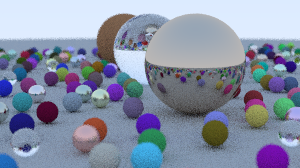
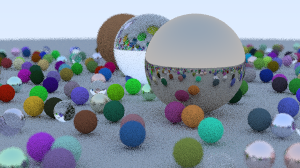
integrate the new vec3 module to the code.

diff --git a/rayt-python/rayt_python/main.py b/rayt-python/rayt_python/main.py
@@ -13,8 +13,8 @@ from rayt_python.material import Dielectric, Lambertian, Metal
 from rayt_python.ray import Ray
 from rayt_python.sphere import Sphere
 from rayt_python.utils import random_double
-from rayt_python.vec3 import Vec3, Color, Point3
-from rayt_python.vec3_old import unit_vector
+from rayt_python.vec3 import unit_vector
+from rayt_python.vec3_types import Color, Point3, Vec3
 
 
 def ray_color(ray: Ray, world: Hittable, depth: int) -> Color:
@@ -44,26 +44,26 @@ def random_scene() -> HittableList:
     ground_material = Lambertian(albedo=Color(0.5, 0.5, 0.5))
     world.add(Sphere(Point3(0.0, -1000.0, 0.0), 1000.0, ground_material))
 
-    # for a, b in itertools.product(range(-11, 11), range(-11, 11)):
-    #     choose_mat = random_double()
-    #     center = Point3(a + 0.9 * random_double(), 0.2, b + 0.9 * random_double())
+    for a, b in itertools.product(range(-11, 11), range(-11, 11)):
+        choose_mat = random_double()
+        center = Point3(a + 0.9 * random_double(), 0.2, b + 0.9 * random_double())
 
-    #     if (center - Point3(4.0, 0.2, 0.0)).length > 0.9:
-    #         if choose_mat < 0.8:
-    #             # diffuse
-    #             albedo = Color.random() * Color.random()
-    #             sphere_material = Lambertian(albedo)
-    #             world.add(Sphere(center, 0.2, sphere_material))
-    #         elif choose_mat < 0.95:
-    #             # metal
-    #             albedo = Color.random(0.5, 1.0)
-    #             fuzz = random_double(0.0, 0.5)
-    #             sphere_material = Metal(albedo, fuzz)
-    #             world.add(Sphere(center, 0.2, sphere_material))
-    #         else:
-    #             # glass
-    #             sphere_material = Dielectric(1.5)
-    #             world.add(Sphere(center, 0.2, sphere_material))
+        if (center - Point3(4.0, 0.2, 0.0)).length > 0.9:
+            if choose_mat < 0.8:
+                # diffuse
+                albedo = Color.random() * Color.random()
+                sphere_material = Lambertian(albedo)
+                world.add(Sphere(center, 0.2, sphere_material))
+            elif choose_mat < 0.95:
+                # metal
+                albedo = Color.random(0.5, 1.0)
+                fuzz = random_double(0.0, 0.5)
+                sphere_material = Metal(albedo, fuzz)
+                world.add(Sphere(center, 0.2, sphere_material))
+            else:
+                # glass
+                sphere_material = Dielectric(1.5)
+                world.add(Sphere(center, 0.2, sphere_material))
 
     material_1 = Dielectric(1.5)
     world.add(Sphere(Point3(0.0, 1.0, 0.0), 1.0, material_1))
@@ -141,10 +141,4 @@ def main() -> None:
 
 
 if __name__ == "__main__":
-    # main()
-    vec3_1 = Vec3_2(x=1.0, y=2.0, z=1.5)
-    vec3_2 = Vec3_2(x=1.2, y=-2.5, z=0.5)
-    total = vec3_1 + vec3_2
-    print(f"vec3_1: {vec3_1}")
-    print(f"vec3_2: {vec3_2}")
-    print(f"total : {total}")
+    main()

diff --git a/rayt-python/rayt_python/vec3.py b/rayt-python/rayt_python/vec3.py
@@ -1,0 +1,50 @@
+import math
+
+from rayt_python.utils import random_double
+from rayt_python.vec3_types import Vec3
+
+
+def dot(u: Vec3, v: Vec3) -> float:
+    return u.x * v.x + u.y * v.y + u.z * v.z
+
+
+def random_unit_vector() -> Vec3:
+    a = random_double(0.0, 2 * math.pi)
+    z = random_double(-1, 1)
+    r = pow(1 - pow(z, 2), 0.5)
+    return Vec3(r * math.cos(a), r * math.sin(a), z)
+
+
+def unit_vector(v: Vec3) -> Vec3:
+    return v / v.length
+
+
+def cross(u: Vec3, v: Vec3) -> Vec3:
+    return Vec3(u.y * v.z - u.z * v.y, u.z * v.x - u.x * v.z, u.x * v.y - u.y * v.x)
+
+
+def random_in_unit_disk() -> Vec3:
+    while True:
+        p = Vec3(random_double(-1, 1), random_double(-1, 1), 0)
+        if p.length_squared >= 1:
+            continue
+        return p
+
+
+def random_in_unit_sphere() -> Vec3:
+    while True:
+        p = Vec3.random(-1, 1)
+        if p.length_squared >= 1:
+            continue
+        return p
+
+
+def reflect(v: Vec3, n: Vec3) -> Vec3:
+    return v - 2 * dot(v, n) * n
+
+
+def refract(uv: Vec3, n: Vec3, etai_over_etat: float) -> Vec3:
+    cos_theta = dot(-uv, n)
+    r_out_parallel = etai_over_etat * (uv + cos_theta * n)
+    r_out_perp = -pow(1.0 - r_out_parallel.length_squared, 0.5) * n
+    return r_out_parallel + r_out_perp

diff --git a/rayt-python/rayt_python/material.py b/rayt-python/rayt_python/material.py
@@ -3,7 +3,6 @@ import typing
 from rayt_python.ray import Ray
 from rayt_python.utils import random_double
 from rayt_python.vec3 import (
-    Color,
     dot,
     random_in_unit_sphere,
     random_unit_vector,
@@ -11,6 +10,7 @@ from rayt_python.vec3 import (
     refract,
     unit_vector,
 )
+from rayt_python.vec3_types import Color
 
 if typing.TYPE_CHECKING:
     from rayt_python.hittable import HitRecord

diff --git a/rayt-python/rayt_python/camera.py b/rayt-python/rayt_python/camera.py
@@ -2,13 +2,8 @@ import math
 
 from rayt_python.ray import Ray
 from rayt_python.utils import degrees_to_radians
-from rayt_python.vec3 import (
-    Point3,
-    Vec3,
-    cross,
-    random_in_unit_disk,
-    unit_vector,
-)
+from rayt_python.vec3 import cross, random_in_unit_disk, unit_vector
+from rayt_python.vec3_types import Point3, Vec3
 
 
 class Camera:

diff --git a/rayt-python/setup.py b/rayt-python/setup.py
@@ -5,7 +5,7 @@ from setuptools import Extension, setup
 
 ext_lib_dir = (pathlib.Path() / "rayt_cython").resolve()
 ext_modules = cythonize(
-    [Extension("rayt_python.vec3", [str(ext_lib_dir / "vec3.pyx")])],
+    [Extension("rayt_python.vec3_types", [str(ext_lib_dir / "vec3.pyx")])],
     compiler_directives={"language_level": "3"},
 )
 

diff --git a/rayt-python/rayt_python/sphere.py b/rayt-python/rayt_python/sphere.py
@@ -3,7 +3,8 @@ import typing
 from rayt_python.hittable import HitRecord, Hittable
 from rayt_python.material import Material
 from rayt_python.ray import Ray
-from rayt_python.vec3 import Point3, dot
+from rayt_python.vec3 import dot
+from rayt_python.vec3_types import Point3
 
 
 class Sphere(Hittable):

diff --git a/rayt-python/rayt_python/hittable.py b/rayt-python/rayt_python/hittable.py
@@ -1,8 +1,7 @@
-import typing
-
 from rayt_python.material import Material
 from rayt_python.ray import Ray
-from rayt_python.vec3 import Point3, Vec3, dot
+from rayt_python.vec3 import dot
+from rayt_python.vec3_types import Point3, Vec3
 
 
 class HitRecord:

diff --git a/rayt-python/rayt_python/color.py b/rayt-python/rayt_python/color.py
@@ -1,5 +1,5 @@
 from rayt_python.utils import clamp
-from rayt_python.vec3 import Color
+from rayt_python.vec3_types import Color
 
 
 def get_color_str(pixel_color: Color, samples_per_pixel: int) -> str:

diff --git a/rayt-python/tests/test_vec3.py b/rayt-python/tests/test_vec3.py
@@ -1,4 +1,4 @@
-from rayt_python.vec3 import Color, Point3, Vec3
+from rayt_python.vec3_types import Color, Point3, Vec3
 
 
 def test_unary_minus_operator():

diff --git a/rayt-python/rayt_python/ray.py b/rayt-python/rayt_python/ray.py
@@ -1,4 +1,4 @@
-from rayt_python.vec3 import Point3, Vec3
+from rayt_python.vec3_types import Point3, Vec3
 
 
 class Ray:
